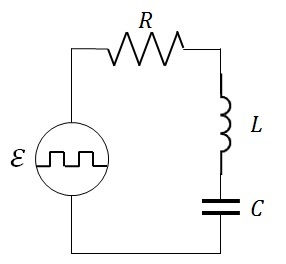
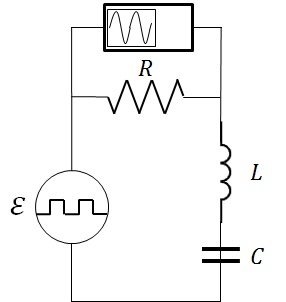
subo la caratula con el resumen y los circuitos arreglados. Amor y paz

diff --git a/Informe-2/Caratula.tex b/Informe-2/Caratula.tex
@@ -63,7 +63,7 @@
 %----------------------------------------------------------------------------------------
 
 \HRule \\[0.4cm]
-{ \huge \bfseries Transitorios y tiempos caracteristicos de circuitos}\\[0.2cm] % Title of your document
+{ \huge \bfseries Transitorio y tiempo caracteristico de circuitos}\\[0.2cm] % Title of your document
 \HRule \\[1cm]
  
 %----------------------------------------------------------------------------------------
@@ -107,6 +107,12 @@
 
 \begin{center}
 \large{\textbf{Resumen}}
+
+El objetivo del siguiente trabajo fue caracterizar circuitos RC, RL y RCL. 
+
+Para los dos primeros casos, los circuitos RC y RL, se buscó determinar el tiempos característico de cada uno variando los parámetros de cada sistema. Ademas de poder observar los fenómenos particulares en estos sistemas, como la carga y descarga del capacitor y la disminución de la corriente debido a la inductancia, utilizando una fuente de alimentación que emitía señales cuadradas y osciloscopio como instrumento de medición.
+
+Por otro lado, el estudio del circuito RCL se centró en la observación de los comportamientos que tiene el mismo para distintos parámetros del sistema. Para ellos se obtenían teóricamente los valores necesarios de cada parámetro para luego $settear$ los elementos del circuito y comprobar que la evolución del sistema cumpliese el modelo teórico. Dichas observaciones se obtuvieron nuevamente utilizando una fuente de señal cuadrada y un osciloscopio.
 
 \small{} % ACA VA EL RESUMEN
 
